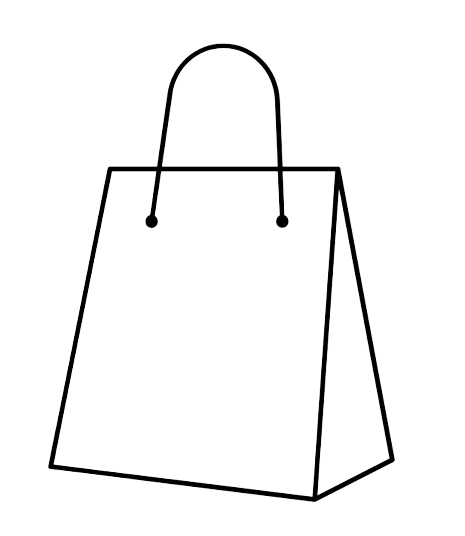
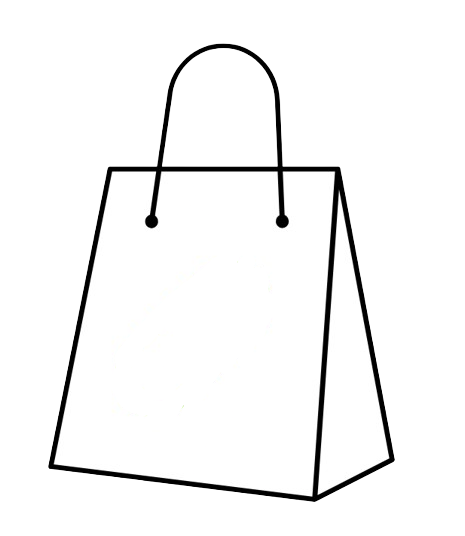
remedi section done

diff --git a/remedi_landing_page/app/styles/Remedi.scss b/remedi_landing_page/app/styles/Remedi.scss
@@ -1,5 +1,92 @@
-.Remedi{
-    height: 100vh;
-    width: 100%;
-    background-color: cyan;
+.quote01 {
+  width: 100%;
+  height: 20vh;
+  text-align: center;
+  font-size: 2rem;
+  line-height: 2rem;
+  padding: calc(10vh - 1rem) 0;
+  background: transparent;
+  color: #fff;
+  font-weight: 700;
+}
+.bg1 {
+  width: 100%;
+  height: 100%;
+  object-fit: cover;
+  object-position: top;
+  position: fixed;
+  top: 0vh;
+  z-index: -9;
+  filter: contrast(70%);
+}
+.Remedi {
+  height: 100vh;
+  width: 100%;
+  background-color: #fff;
+  display: flex;
+  position: relative;
+
+  & > img {
+    height: 8vw;
+    position: absolute;
+    left: 50%;
+    top: 40%;
+    transform: translate(-50%, -50%);
+    z-index: 2;
+  }
+  & > div {
+    width: 50%;
+    height: 100%;
+
+    &.left {
+      padding: 12vw 15vw 3vw 3vw;
+      display: flex;
+      gap: 1vw;
+      flex-direction: column;
+
+      .head {
+        font-weight: 600;
+        opacity: 0.9;
+        font-size: 3vw;
+        display: flex;
+        flex-direction: column;
+
+        & > span:nth-child(2) {
+          justify-self: flex-end;
+          align-self: center;
+        }
+      }
+      .info {
+        font-size: 1.2vw;
+        font-weight: 600;
+        opacity: 0.8;
+        width: 80%;
+        line-height: 2.7vw;
+
+        span {
+          padding: 0.5vw 0;
+          border-bottom: 4px solid #8ad126;
+        }
+      }
+    }
+    &.right {
+      background-color: #7cc000;
+      padding: 6vw;
+      position: relative;
+      // padding-bottom: 9vw;
+      .bgRemedi {
+        width: 100%;
+        height: 100%;
+        object-fit: contain;
+      }
+      .remediBag {
+        position: absolute;
+        bottom: 28%;
+        left: 50%;
+        transform: translateX(-48%);
+        height: 150px;
+        // opacity: 0;
+      }
+    }
+  }
 }

diff --git a/remedi_landing_page/app/sections/Remedi.js b/remedi_landing_page/app/sections/Remedi.js
@@ -1,9 +1,20 @@
 import '../styles/Remedi.scss';
 
-export default function Remedi(){
+export default function Remedi() {
     return (
-        <div className="Remedi section">
-
-        </div>
+        <>
+            <div className='quote01'>Medicines are expensive? | Well, Not any more </div>
+            <div className="Remedi section">
+                <div className='left'>
+                    <div className='head'><span>We Ensure</span><span>Your Safty</span></div>
+                    <div className='info'><span>Every medicine is checked by our experts before it gets to you</span></div>
+                </div>
+                <img src='/plus.png' alt=''/>
+                <div className='right'>
+                    <img className='bgRemedi' src='/bgRemedi.png' alt=''/>
+                    <img className='remediBag' id='remediBag' src='/remediBag.png' alt=''/>
+                </div>
+            </div>
+        </>
     );
 }

diff --git a/remedi_landing_page/app/components/PreLoader.js b/remedi_landing_page/app/components/PreLoader.js
@@ -40,6 +40,7 @@ export default function PreLoader() {
       .to(".page",{
         y: '-82vh',
         duration: 1,
+        onComplete:()=> gsap.to(".bg1",{position:'fixed',y:0,})
       },"<")
       .to(".nav",{
         y: '-120vh',
@@ -53,13 +54,14 @@ export default function PreLoader() {
         duration: 1,
       },"<")
       .to(".page",{opacity:1},"<")
+      
   }, [])
 
   return (
     <div className="preLoader">
       <div className="upper">
         <img src="/reMedi.png" className='remediText' />
-        <img src="../favicon.ico" className='mediBag' />
+        <img src="/remediBag.png" className='mediBag' />
       </div>
       <img src="/reselMeds.png" className="lower reselMeds" />
     </div>

diff --git a/remedi_landing_page/app/page.js b/remedi_landing_page/app/page.js
@@ -11,12 +11,16 @@ import Remedi from './sections/Remedi';
 
 function Page() {
   return (
-    <div className="page" >
-      <Hero />
-      <Seller />
-      <Remedi />
-      <Buyer />
-    </div>
+    <>
+      <img className="bg1" src="/bg02.jpg" alt="background" />
+      <div className="page" >
+
+        <Hero />
+        <Seller />
+        <Remedi />
+        <Buyer />
+      </div>
+    </>
   )
 }
 

diff --git a/remedi_landing_page/app/globals.css b/remedi_landing_page/app/globals.css
@@ -11,3 +11,10 @@ html, body{
     height: 100%;
     width: 100%;
 }
+html::-webkit-scrollbar{
+    width: 12px;
+}
+html::-webkit-scrollbar-thumb{
+    background-color: #a9a9a9;
+    border-radius: 6px;
+}

diff --git a/remedi_landing_page/app/styles/Seller.scss b/remedi_landing_page/app/styles/Seller.scss
@@ -17,6 +17,7 @@
             bottom: 14vw;
             left: 25.2vw;
             height: 150px;
+            z-index: 8;
         }
     }
 

diff --git a/remedi_landing_page/app/styles/Hero.scss b/remedi_landing_page/app/styles/Hero.scss
@@ -1,6 +1,7 @@
 .hero {
   height: 82vh;
   width: 100%;
+  background-color: #fff;
   .main {
     height: 80vh;
     width: 100%;

diff --git a/remedi_landing_page/app/styles/page.scss b/remedi_landing_page/app/styles/page.scss
@@ -1,6 +1,7 @@
 .preLoaderCover{
     height: 100vh;
     width: 100%;
+    background-color: #fff;
 }
 
 .page{
